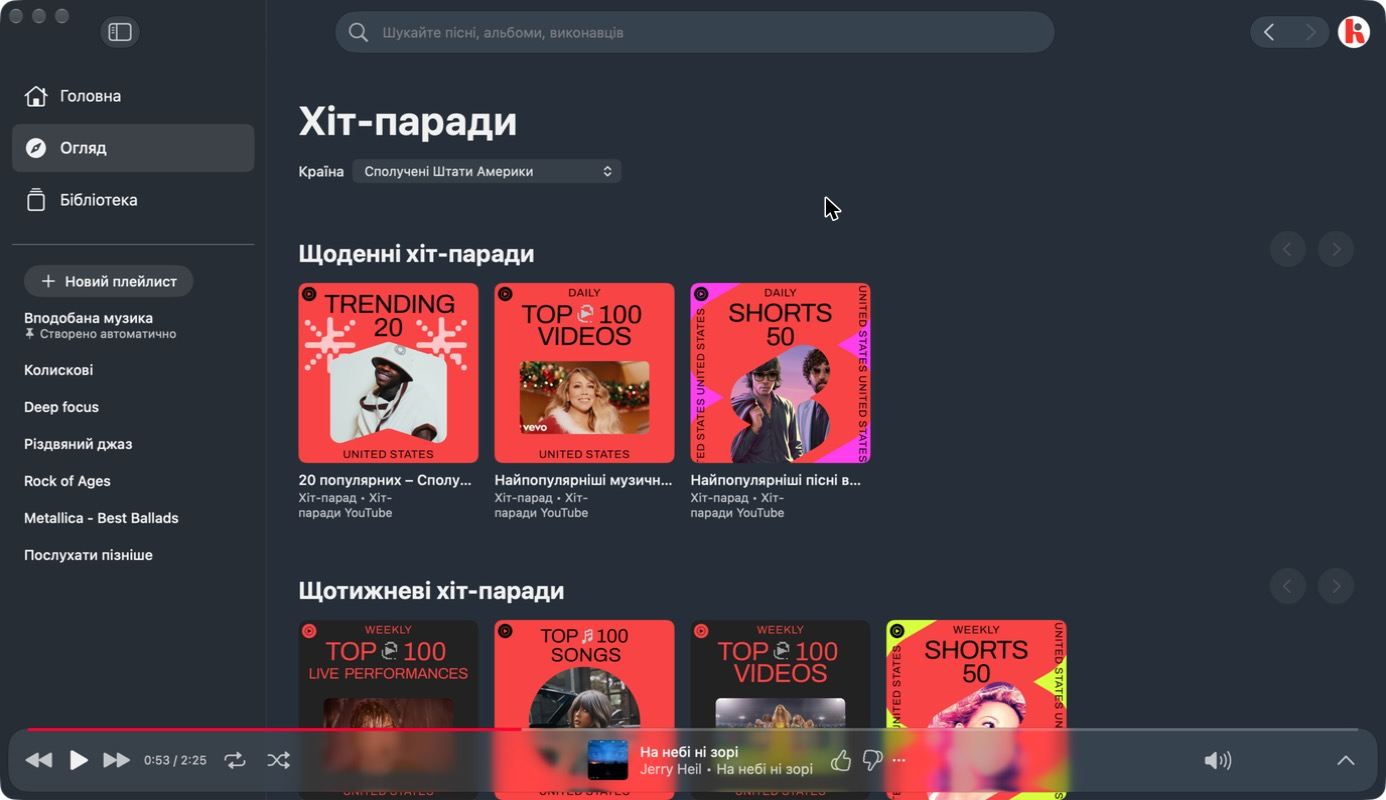
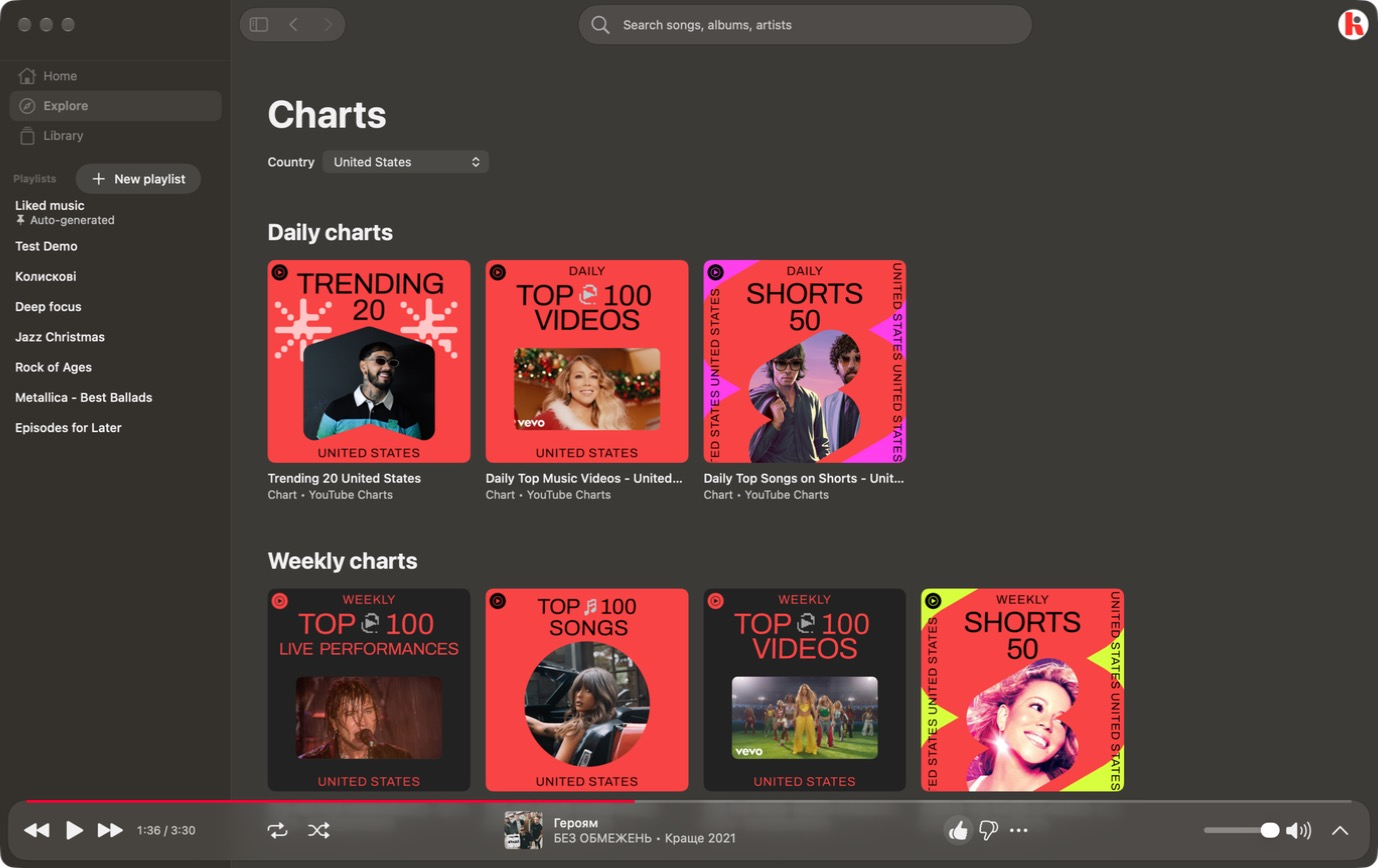
docs(readme): refresh screenshots for 0.1.0-beta.5
Retake all nine screenshots from the 0.1.0-beta.5 build, bump the
release badge and update the playlist and search captions to match.

diff --git a/README.md b/README.md
@@ -3,7 +3,7 @@
 </p>
 
 <p align="center">
-  <a href="https://github.com/AratKruglik/ruta-wave/releases"><img src="https://img.shields.io/badge/release-0.1.0--beta.3-E8253F" alt="Latest release"></a>
+  <a href="https://github.com/AratKruglik/ruta-wave/releases"><img src="https://img.shields.io/badge/release-0.1.0--beta.5-E8253F" alt="Latest release"></a>
   <img src="https://img.shields.io/badge/macOS-14%2B-111?logo=apple&logoColor=white" alt="macOS 14+">
   <img src="https://img.shields.io/badge/Apple%20Silicon-arm64-111" alt="Apple Silicon">
   <img src="https://img.shields.io/badge/Swift-6-F05138?logo=swift&logoColor=white" alt="Swift 6">
@@ -77,10 +77,10 @@ RutaWave is a YouTube Music client built for the Mac:
   </tr>
   <tr>
     <td><img src="docs/assets/screenshots/artist.jpg" alt="Artist page"><p align="center"><sub><b>Artist</b>: top songs, shuffle, radio, subscribe</sub></p></td>
-    <td><img src="docs/assets/screenshots/playlist.jpg" alt="Playlist page"><p align="center"><sub><b>Playlist</b>: the interface takes on the artwork's colours</sub></p></td>
+    <td><img src="docs/assets/screenshots/playlist.jpg" alt="Playlist page"><p align="center"><sub><b>Playlist</b>: play, shuffle, save and share</sub></p></td>
   </tr>
   <tr>
-    <td><img src="docs/assets/screenshots/search.jpg" alt="Search results"><p align="center"><sub><b>Search</b>: top result, songs, albums, artists</sub></p></td>
+    <td><img src="docs/assets/screenshots/search.jpg" alt="Search results"><p align="center"><sub><b>Search</b>: filters, the top result and songs</sub></p></td>
     <td><img src="docs/assets/screenshots/library.jpg" alt="Library"><p align="center"><sub><b>Library</b>: your playlists, with sorting and history</sub></p></td>
   </tr>
   <tr>
